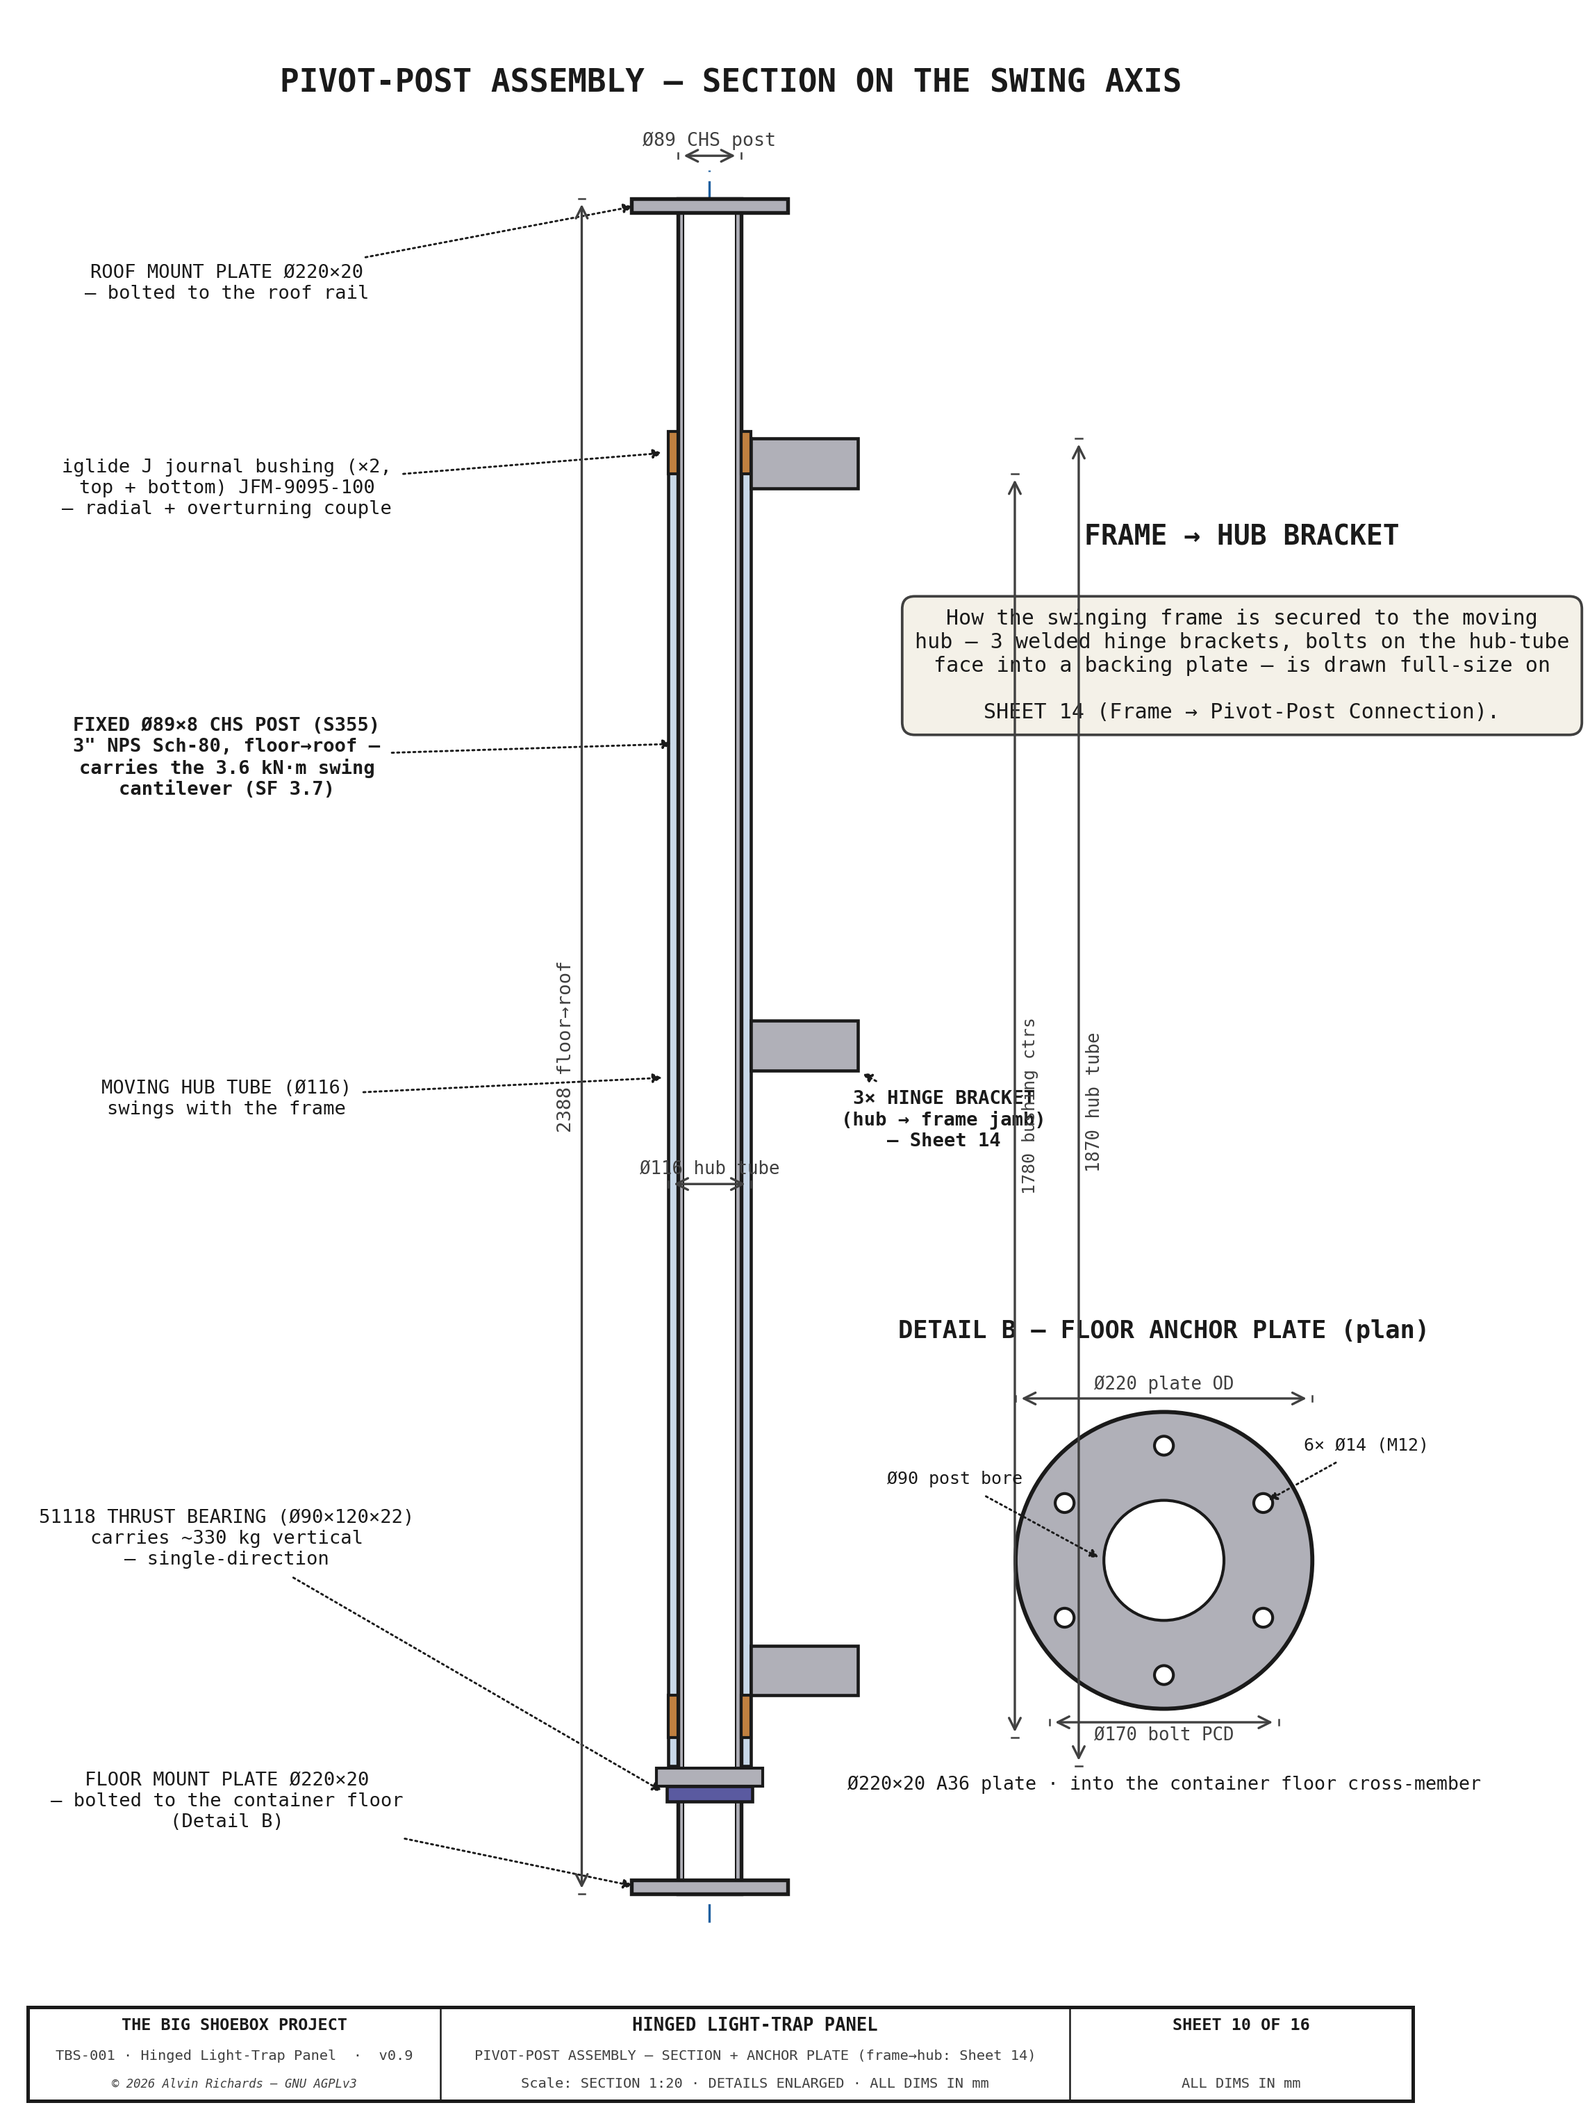
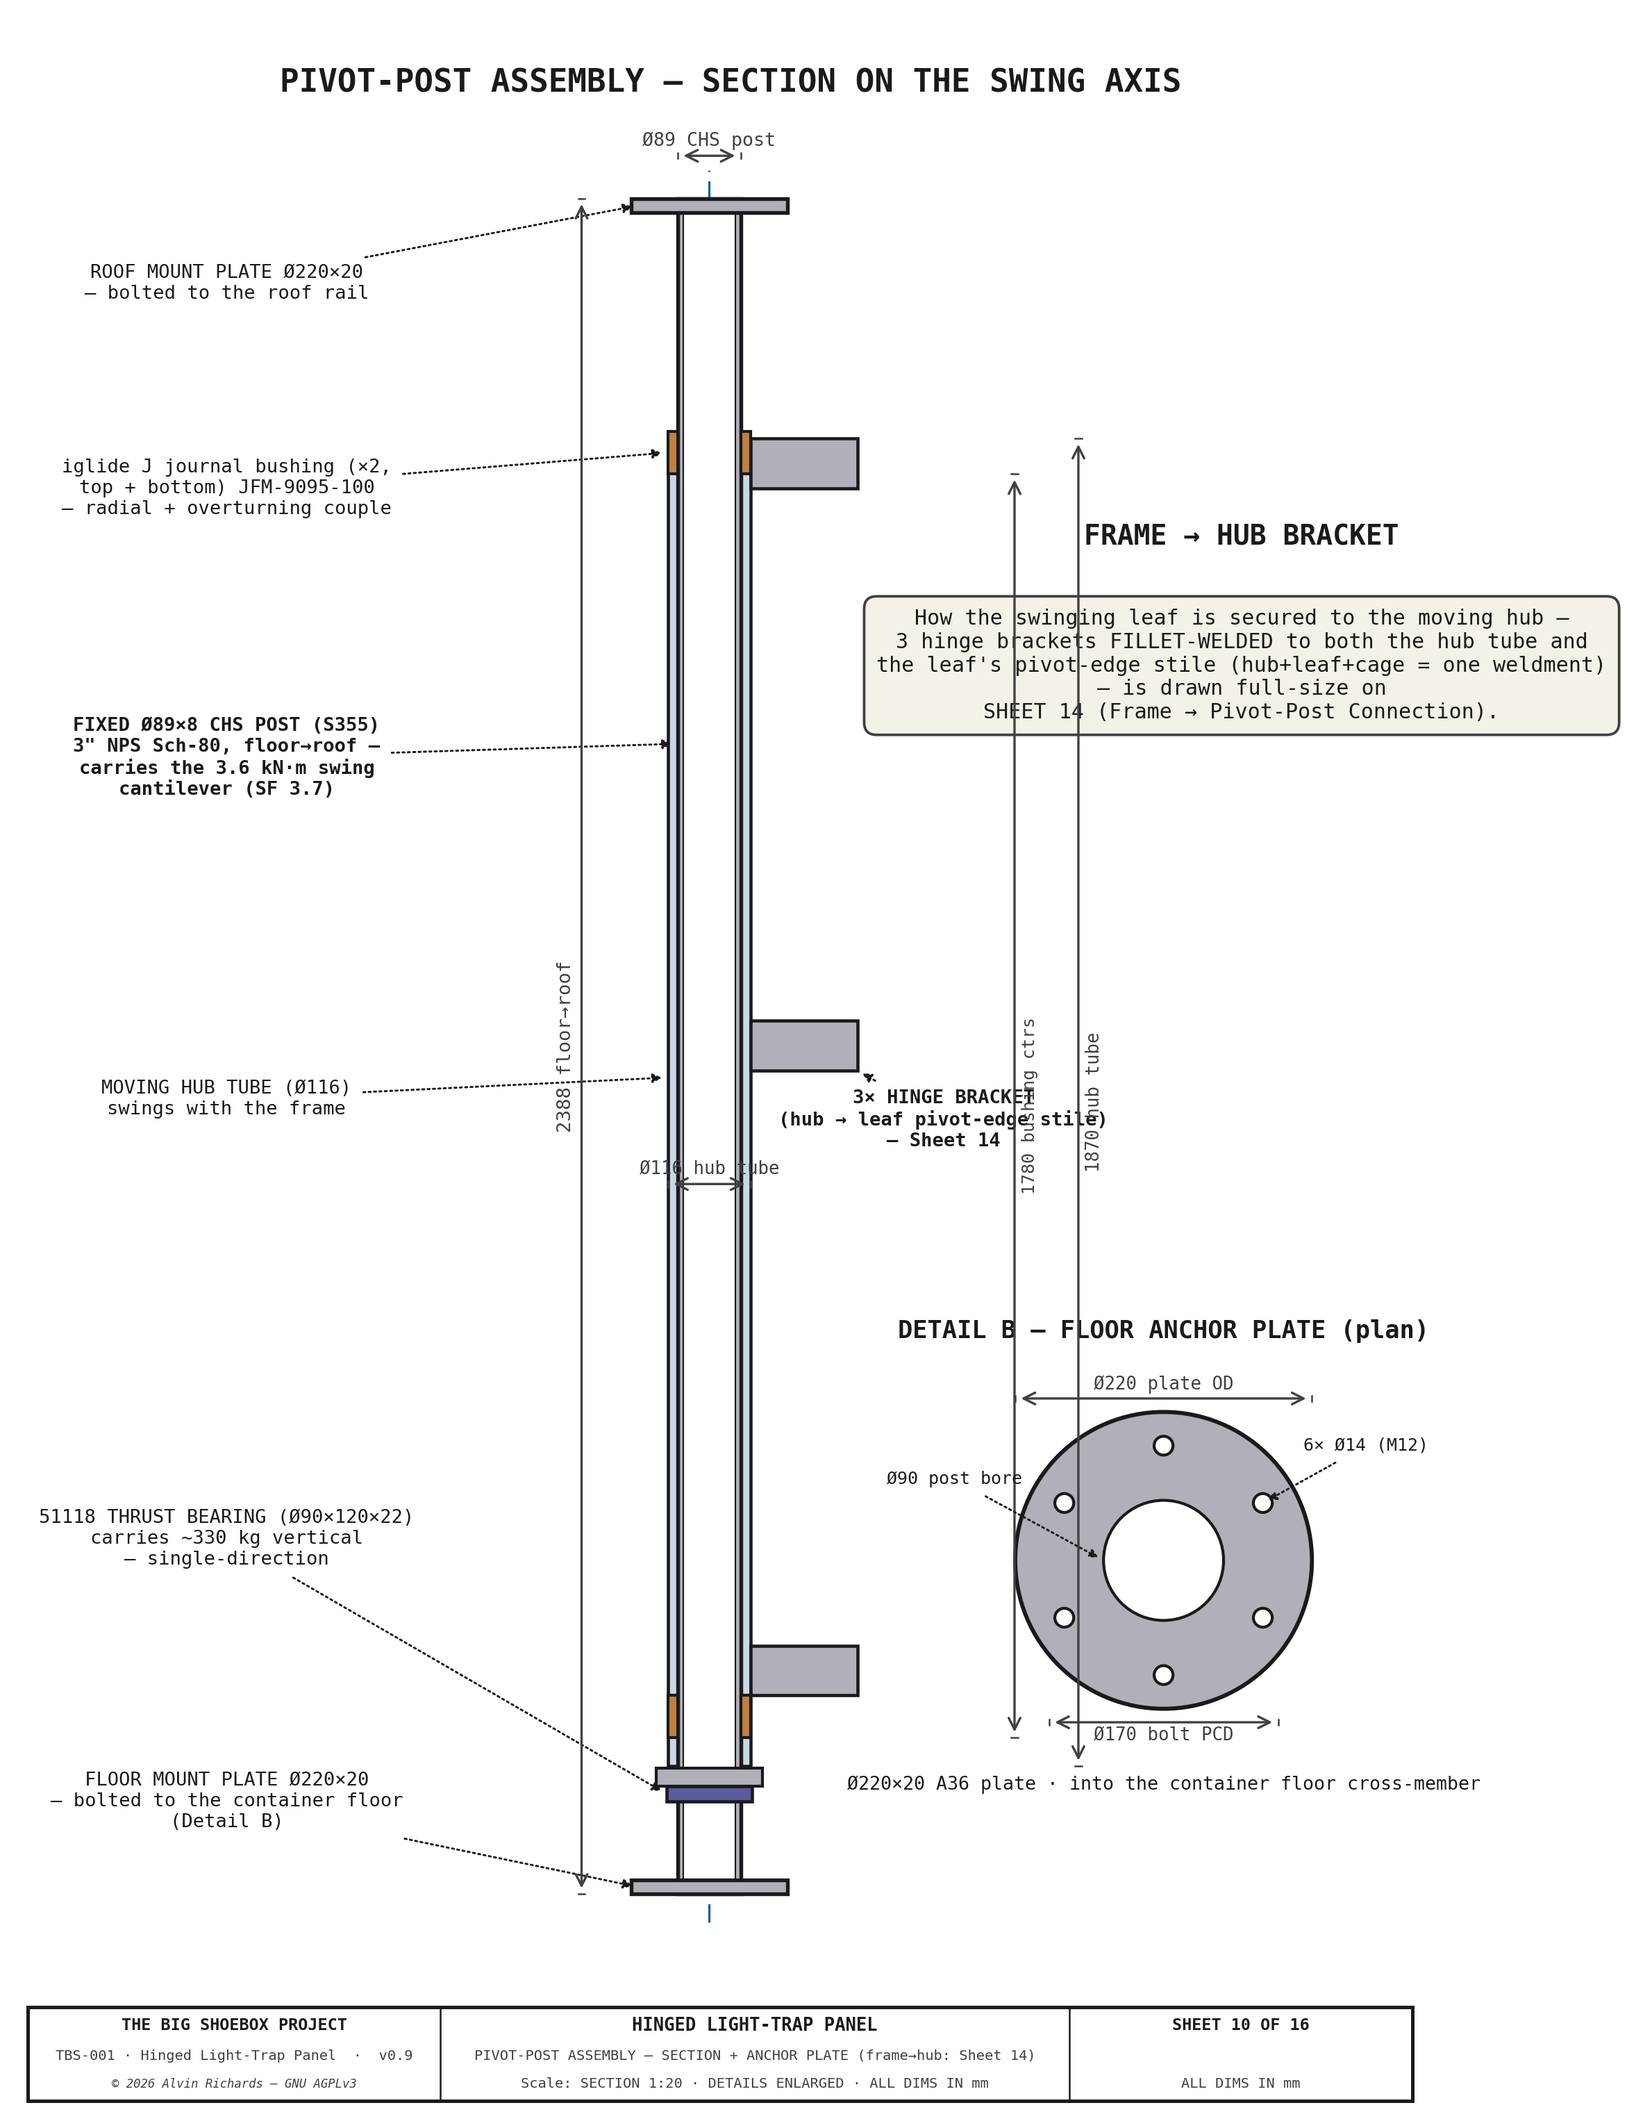
pivot securing reconciled 2D+3D: leaf pivot-edge stile + hinge brackets
Frame->post securing per Alvin: hub rides the fixed post; 3 hinge brackets fillet-
welded to the leaf's TRAVELLING pivot-edge stile (hub+leaf+cage = one weldment).
2D: Sheets 10/14 relabelled center-jamb -> pivot-edge stile (travels, carries the
pivot-corner ply); Sheet 16 '200 fixed stub' -> travelling pivot-corner leaf. 3D:
added the pivot-edge stile so the hub brackets land on steel; deleted the wrong
door-plane connect beams. .skp held for the save.

diff --git a/src/generators/generate_hingepanel_diagram.py b/src/generators/generate_hingepanel_diagram.py
@@ -2193,7 +2193,7 @@ def sheet10():
     # 3 frame→hub hinge brackets (on the +X side, toward the frame)
     for z in (300, 1180, 2000):
         ax.add_patch(Rectangle((cx + R + 14, z - 20), 150, 70, fc=C_STEEL, ec=C_OUT, lw=1.1, zorder=6))
-    leader(ax, (cx + R + 164, 1160), (cx + 330, 1090), "3× HINGE BRACKET\n(hub → frame jamb)\n— Sheet 14", col=C_OUT, fw="bold")
+    leader(ax, (cx + R + 164, 1160), (cx + 330, 1090), "3× HINGE BRACKET\n(hub → leaf pivot-edge stile)\n— Sheet 14", col=C_OUT, fw="bold")
     draw_dim_v(ax, cx - 180, 0, HGT, f"{HGT} floor→roof", offset=16, fs=6.6, font=FONT)
     # diameters (dim_h) + component lengths (dim_v) on the pivot post
     draw_dim_h(ax, cx - R, cx + R, HGT + 60, f"Ø{PIVOT_POST_OD:.0f} CHS post", offset=14, fs=6.4, font=FONT)
@@ -2203,7 +2203,7 @@ def sheet10():
 
     # ── RIGHT: frame→hub bracket is detailed on its own sheet ─────────────────
     ax.text(1000, 1900, "FRAME → HUB BRACKET", ha="center", fontsize=9.5, fontweight="bold", color=C_OUT, **FONT)
-    ax.text(1000, 1810, "How the swinging frame is secured to the moving\nhub — 3 welded hinge brackets, bolts on the hub-tube\nface into a backing plate — is drawn full-size on\n\nSHEET 14 (Frame → Pivot-Post Connection).",
+    ax.text(1000, 1810, "How the swinging leaf is secured to the moving hub —\n3 hinge brackets FILLET-WELDED to both the hub tube and\nthe leaf's pivot-edge stile (hub+leaf+cage = one weldment)\n— is drawn full-size on\nSHEET 14 (Frame → Pivot-Post Connection).",
             ha="center", va="top", fontsize=7.2, color=C_OUT, **FONT,
             bbox=dict(boxstyle="round,pad=0.6", fc="#F4F1E8", ec=C_DIM, lw=0.9))
 
@@ -2426,14 +2426,14 @@ def sheet14():
     ax.plot([cx, cx], [-30, HGT + 30], color=C_CL, lw=0.8, ls=(0, (8, 4)), zorder=2)
     ax.add_patch(Rectangle((cx - 58, 40), 116, HGT - 80, fc=C_ALUM, ec=C_OUT, lw=1.2, alpha=0.5, zorder=4))       # hub tube (full height for simplicity)
     ax.add_patch(Rectangle((cx - 58 + 12, 40), 116 - 24, HGT - 80, fc=BG, ec=C_OUT, lw=0.4, zorder=4))            # bore (post)
-    ax.add_patch(Rectangle((cx + 58 + 120, 0), 30, HGT, fc=C_STEEL, ec=C_OUT, lw=1.1, alpha=0.85, zorder=3))       # frame center jamb
+    ax.add_patch(Rectangle((cx + 58 + 120, 0), 30, HGT, fc=C_STEEL, ec=C_OUT, lw=1.1, alpha=0.85, zorder=3))       # leaf pivot-edge stile
     for z in (300, 1180, 2000):
-        ax.add_patch(Rectangle((cx + 58, z - 22), 120, 66, fc=C_STEEL, ec=C_OUT, lw=1.1, zorder=5))               # hinge bracket (welded hub↔jamb)
-        for jz in (z - 20, z + 42):                                                                               # weld ticks at the jamb
+        ax.add_patch(Rectangle((cx + 58, z - 22), 120, 66, fc=C_STEEL, ec=C_OUT, lw=1.1, zorder=5))               # hinge bracket (welded hub↔leaf stile)
+        for jz in (z - 20, z + 42):                                                                               # weld ticks at the stile
             ax.add_patch(Polygon([(cx + 178, jz), (cx + 170, jz), (cx + 178, jz + (6 if jz < z else -6))], closed=True, fc=C_OUT, ec="none", zorder=7))
     leader(ax, (cx, 1400), (cx - 170, 1500), "MOVING HUB TUBE (Ø116)\nrides the fixed Ø89 post\n(Sheet 10)", col=C_OUT, fs=6.5)
-    leader(ax, (cx + 118, 300), (cx - 150, 500), "3× HINGE BRACKET\nwelded to hub + jamb", col=C_OUT, fw="bold", fs=6.5)
-    leader(ax, (cx + 178, 2000), (cx + 250, 2200), "frame center jamb\n(2×2×0.120 RHS)", col=C_OUT, fs=6.5)
+    leader(ax, (cx + 118, 300), (cx - 150, 500), "3× HINGE BRACKET\nwelded to hub + stile", col=C_OUT, fw="bold", fs=6.5)
+    leader(ax, (cx + 178, 2000), (cx + 250, 2200), "LEAF PIVOT-EDGE STILE\n(2×2 RHS — TRAVELS with\nthe leaf, carries its plywood)", col=C_OUT, fw="bold", fs=6.5)
     ax.text(cx + 40, HGT + 130, "ELEVATION — 3 brackets up the hub", ha="center", fontsize=8.5, fontweight="bold", color=C_OUT, **FONT)
 
     # ── RIGHT: enlarged plan section of one bracket ──
@@ -2442,8 +2442,8 @@ def sheet14():
     ax.text(ox + 55 * s, oy + 95 * s, "DETAIL — HINGE BRACKET (plan section)", ha="center", fontsize=9, fontweight="bold", color=C_OUT, **FONT)
     ax.add_patch(Rectangle(d(-14, -40), 14 * s, 80 * s, fc=C_ALUM, ec=C_OUT, lw=1.3, zorder=5))       # hub tube wall
     ax.add_patch(Rectangle(d(0, -22), 66 * s, 44 * s, fc=C_STEEL, ec=C_OUT, lw=1.4, zorder=6))         # bracket plate (welded to hub)
-    ax.add_patch(Rectangle(d(66, -42), 50 * s, 84 * s, fc=C_STEEL, ec=C_OUT, lw=1.4, hatch="///", zorder=5))  # frame jamb
-    ax.add_patch(Rectangle(d(69, -39), 44 * s, 78 * s, fc=BG, ec=C_OUT, lw=0.5, zorder=5))             # jamb bore
+    ax.add_patch(Rectangle(d(66, -42), 50 * s, 84 * s, fc=C_STEEL, ec=C_OUT, lw=1.4, hatch="///", zorder=5))  # leaf pivot-edge stile
+    ax.add_patch(Rectangle(d(69, -39), 44 * s, 78 * s, fc=BG, ec=C_OUT, lw=0.5, zorder=5))             # stile bore
     for wy, sgn in ((-22, 1), (22, -1)):                                                               # fillet welds bracket→hub, AT the tube surface
         ax.add_patch(Polygon([d(0, wy), d(0, wy + sgn * 9), d(11, wy)], closed=True, fc=C_OUT, ec="none", zorder=7))
     for wy, sgn in ((-22, 1), (22, -1)):                                                               # fillet welds bracket→jamb (both faces)
@@ -2451,14 +2451,15 @@ def sheet14():
     leader(ax, d(-7, 30), (ox - 60, oy + 40 * s), "hub tube\nwall", col=C_OUT, fs=6.5)
     leader(ax, d(4, -18), (ox - 150, oy - 6 * s), "fillet weld\nbracket→hub", col=C_OUT, fs=6.5)
     leader(ax, d(30, 20), (ox + 20 * s, oy + 80 * s), "bracket plate", col=C_OUT, fs=6.5)
-    leader(ax, d(66, 20), (ox + 118 * s, oy + 78 * s), "fillet weld bracket→jamb\n(no bolts through the closed tube)", col=C_OUT, fw="bold", fs=6.5)
+    leader(ax, d(66, 20), (ox + 118 * s, oy + 78 * s), "fillet weld bracket→leaf stile\n(no bolts through the closed tube)", col=C_OUT, fw="bold", fs=6.5)
 
     draw_notes(ax, [
         "NOTES",
         "The bracket plate is FILLET-WELDED to BOTH the hub tube and the",
-        "frame jamb — the hub + frame + cage swing as ONE weldment. No",
-        "bolts pass through the closed jamb (which can't be",
-        "back-tightened); all-welded steel.",
+        "leaf's PIVOT-EDGE STILE — so the hub + leaf frame + drum cage swing",
+        "as ONE weldment about the fixed post. The stile TRAVELS with the leaf",
+        "and carries the pivot-corner plywood. No bolts pass through the closed",
+        "stile (which can't be back-tightened); all-welded steel.",
         ], ox - 50 * s, oy - 64 * s, spacing=40, fs=6.0, width=1000, font=FONT)
 
     title_block(ax, "SHEET 14 OF 16",
@@ -2731,7 +2732,7 @@ def sheet16():
                                APRON_IN_L, APRON_IN_R, APRON_CAGE_GAP,
                                DRUM_CAGE_YD_L as cgL, DRUM_CAGE_YD_R as cgR, APRON_FIX_W)
     WID  = PW
-    STUB = WID - APRON_FIX_W     # 2162 — far fold-down apron ends here; the 200mm pivot stub is fixed
+    STUB = WID - APRON_FIX_W     # 2162 — far fold-down apron ends here; beyond it is the TRAVELLING pivot-corner leaf
     THR  = 51        # threshold sill top Z
     AT   = 40        # apron thickness (12mm exterior BC plywood, flat-black interior)
     BAYB = 217       # bay bottom cap Z
@@ -2760,9 +2761,11 @@ def sheet16():
         if lbl:
             ax.text((y0 + y1) / 2, ez + top * 0.5, f"{lbl}\n(UP = sealing)\nZ0–{int(top)}", ha="center", va="center",
                     fontsize=7, fontweight="bold", color="#204060", **FONT)
-    ax.add_patch(Rectangle((STUB, ez), WID - STUB, ATOP, fc="#B8B8C0", ec=C_OUT, lw=1.4, hatch="xx", alpha=0.7))  # fixed pivot stub
-    ax.text((STUB + WID) / 2, ez + ATOP * 0.5, f"FIXED\npivot stub\nZ0–{int(ATOP)}", ha="center", va="center",
-            fontsize=6.3, fontweight="bold", color="#303030", **FONT)
+    # pivot-corner leaf TRAVELS with the swinging panel up to the pivot line; tiny fixed past-pivot at the wall
+    ax.add_patch(Rectangle((STUB, ez), PIVOT_YD - STUB, ATOP, fc=C_PLASTIC, ec=C_OUT, lw=1.4, alpha=0.75))
+    ax.text((STUB + PIVOT_YD) / 2, ez + ATOP * 0.5, f"PIVOT-CORNER\nLEAF (travels)\nZ0–{int(ATOP)}", ha="center", va="center",
+            fontsize=5.8, fontweight="bold", color="#204060", **FONT)
+    ax.add_patch(Rectangle((PIVOT_YD, ez), WID - PIVOT_YD, ATOP, fc="#B8B8C0", ec=C_OUT, lw=1.0, hatch="xx", alpha=0.6))
     ax.add_patch(Rectangle((APRON_IN_L, ez), APRON_IN_R - APRON_IN_L, BAF_TOP, fc="#C8A56A", ec=C_OUT, lw=1.2, hatch="///", alpha=0.6))
     ax.text((APRON_IN_L + APRON_IN_R) / 2, ez + 66, f"FIXED CENTER BAFFLE\n(trimmed to the apron edges — no moving part)\nZ51–{int(BAF_TOP)} (drum frame sweeps clear above)", ha="center", va="center",
             fontsize=7, fontweight="bold", color=C_OUT, **FONT)
@@ -2782,7 +2785,7 @@ def sheet16():
     draw_dim_h(ax, 0, APRON_IN_L, ez - 45, f"{int(APRON_IN_L)} near apron", offset=-12, fs=6, font=FONT)
     draw_dim_h(ax, APRON_IN_L, APRON_IN_R, ez - 45, f"{int(APRON_IN_R - APRON_IN_L)} center baffle", offset=-12, fs=6, font=FONT)
     draw_dim_h(ax, APRON_IN_R, STUB, ez - 45, f"{int(STUB - APRON_IN_R)} far apron", offset=-12, fs=6, font=FONT)
-    draw_dim_h(ax, STUB, WID, ez - 45, f"{int(WID - STUB)} stub", offset=-12, fs=6, font=FONT)
+    draw_dim_h(ax, STUB, PIVOT_YD, ez - 45, f"{int(PIVOT_YD - STUB)} pivot leaf", offset=-12, fs=5.6, font=FONT)
 
     # ══ SECTION A (X–Z) — corner apron fold action (bottom-left) ══
     a0 = 130

diff --git a/src/models/generate_lighttrap_model.py b/src/models/generate_lighttrap_model.py
@@ -536,20 +536,6 @@ def pivot_link():
     return '\n'.join(p)
 
 
-def pivot_connect():
-    """Connection beams tying the SWINGING panel frame's far edge to the pivot post/hub — without them the
-    panel frame reads as floating off the Ø89 post (2026-08-31 review). A top + bottom 50mm steel RHS runs
-    in the door plane from the panel far edge (Yd C_WID−APRON_FIX_W) across to the post; swings with the
-    panel, landing the cantilever couple into the hub brackets."""
-    s = 50                                   # 50mm steel RHS, matches the cage/panel frame
-    y0 = C_WID - APRON_FIX_W                 # 2162 — panel far edge
-    span = (PIVOT_YD + s) - y0               # reach across to just past the post center
-    return '\n'.join([
-        ruby_box("Panel→pivot connect beam (top, 50 RHS)",    0, y0, PANEL_Z_TOP - s, s, span, s, color=C_STEEL),
-        ruby_box("Panel→pivot connect beam (bottom, 50 RHS)", 0, y0, PANEL_FLOOR_GAP, s, span, s, color=C_STEEL),
-    ])
-
-
 def near_leaf():
     """FIXED LEFT panel (Yd0..CUT) — does NOT swing; covers the near-wall strip past the
     near upright. Own perimeter EPDM + the vertical cut seal the swinging panel butts."""
@@ -593,6 +579,10 @@ def pivot_corner_leaf():
     return '\n'.join([
         ruby_box("Pivot corner frame (travels)", 0, y0, z0, PLY_X0, y1 - y0, z1 - z0, color=C_STEEL, alpha=1.0),
         ov.ruby_prism("Pivot corner ply (travels)", ply, z0, z1 - z0, color="#C8A060", alpha=1.0),
+        # LEAF PIVOT-EDGE STILE (2×2/50 RHS) at the pivot edge, just inboard of the ply — the 3 hub hinge
+        # brackets (pivot_link, X55..195) LAND on this stile and are fillet-welded to it, so leaf+hub+cage
+        # swing as one weldment (hingepanel Sheet 14). Travels with the leaf.
+        ruby_box("Leaf pivot-edge stile (50 RHS)", PLY_X0, y1 - 50, z0, 50, 50, z1 - z0, color=C_STEEL, alpha=1.0),
     ])
 
 
@@ -1084,7 +1074,8 @@ def generate_ruby():
         drum_frame(),
         fan_b(),
         pivot_link(),
-        pivot_connect(),                  # top+bottom RHS tying the panel frame to the pivot post
+        # (door-plane pivot_connect beams removed — the frame→post connection is the inboard hub + 3 hinge
+        #  brackets landing on the leaf pivot-edge stile; see pivot_corner_leaf + pivot_link, Sheet 14.)
         frame_hooks(),
     ])
 

diff --git a/RELEASE.md b/RELEASE.md
@@ -90,6 +90,12 @@ file** — a release must not ship without a changelog entry:
   to the pivot LINE (not past it) with the inboard-pivot corner NOTCHED so the door-plane ply sweeps clear
   of the fixed post + thrust collar through the swing. Frame→post connection is the inboard pivot hub; no
   fixed jamb, no swept cutout. The former full-height fixed far strip is retired.
+- **Hinged panel — frame→post securing reconciled (2D + 3D).** The swinging leaf is tied to the fixed Ø89
+  post by the moving hub (thrust + journal bearings) and **3 hinge brackets fillet-welded to the leaf's
+  travelling PIVOT-EDGE STILE** (2×2 RHS) — hub + leaf frame + drum cage as one weldment. Sheets 10/14
+  relabelled from "center jamb" to the pivot-edge stile (travels + carries the pivot-corner plywood);
+  Sheet 16's obsolete "200 fixed stub" now reads as the travelling pivot-corner leaf. 3D: added the
+  pivot-edge stile so the hub brackets land on steel, and deleted the wrong door-plane connect beams.
 - **Hinged panel — floor gap raised 130→217 for the transport-swing clearance.** Confirmed (2D + live 3D)
   that in the transport swing the drum's lower cage sweeps across the container over the FIXED processing
   tray and the LEFT walkway's floor-leg cantilever posts. The posts (top Z115, they stay bolted) govern —
